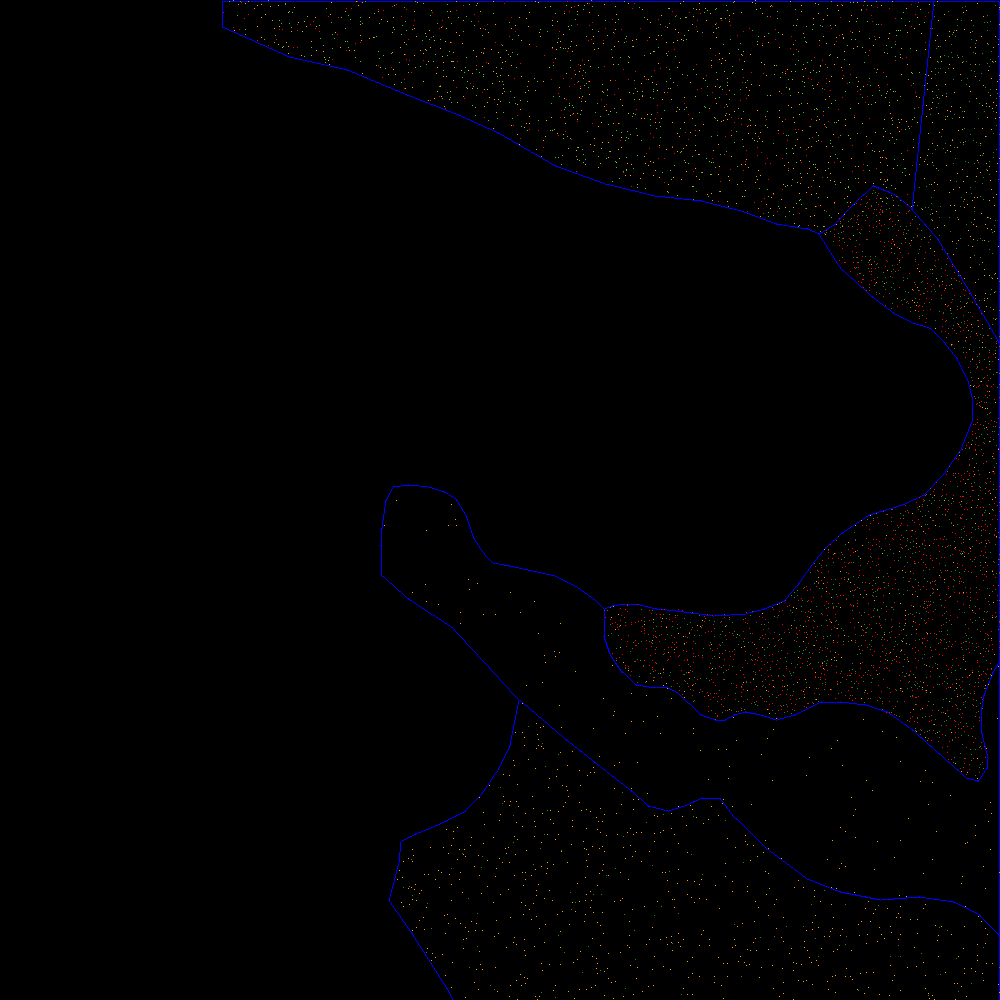
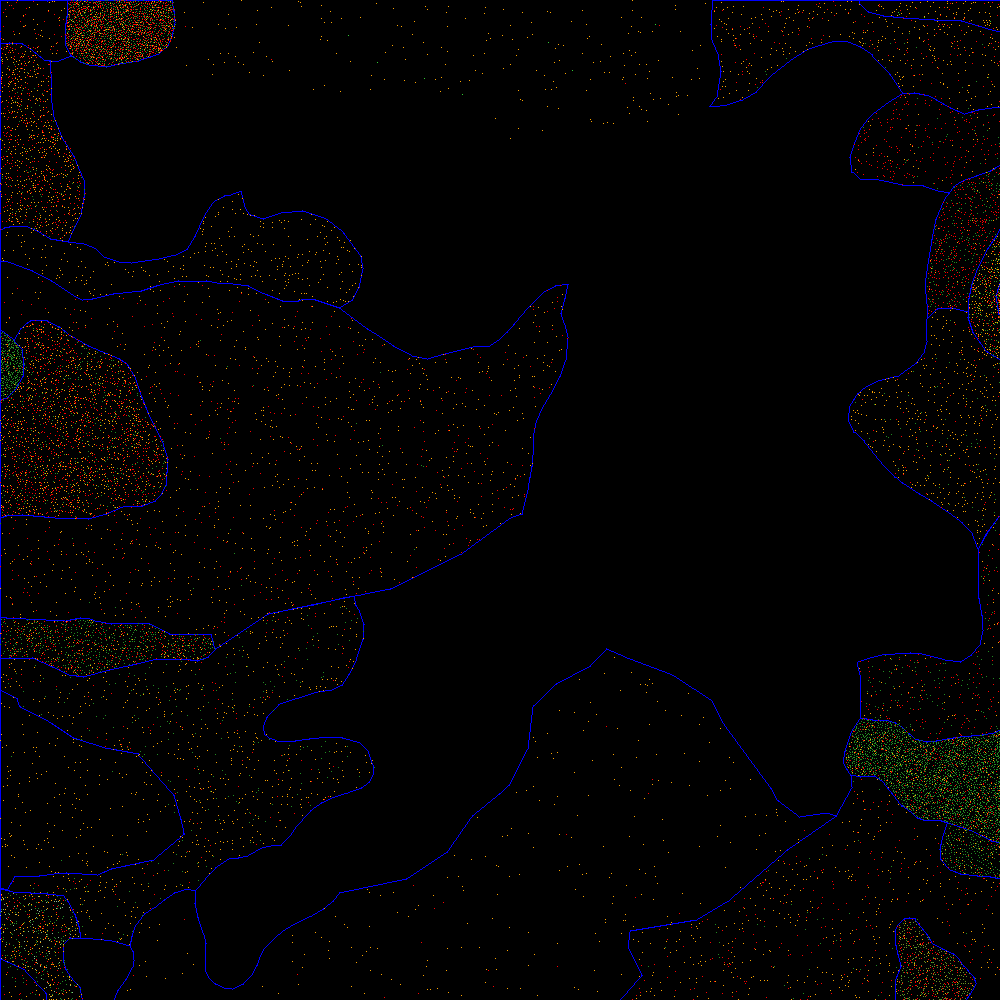
cleaned up some code

diff --git a/src/main.rs b/src/main.rs
@@ -51,7 +51,7 @@ fn get_color_by_species(number: i64) -> Rgb<u8> {
         _ => Rgb([0, 0, 0]), // Black for Unknown
     }
 }
-
+/*
 // Main function
 fn main() {
     let property = ForestPropertyData::from_xml_file("forestpropertydata.xml");
@@ -101,7 +101,7 @@ fn main() {
         .expect("Failed to save image");
     println!("Polygon image saved as 'polygon_image.png'");
 }
-
+*/
 #[test]
 fn test_writing_to_json() {
     let test_json_path = "test_json_from_xml.json";
@@ -169,9 +169,8 @@ fn test_find_stands_in_bounding_box() {
     }
 }
 
-/* 
+
 /* TESTING TREE GENERATION FOR STANDS IN BOUNDING BOX */
-// TODO: Fix drawing the compartment polygons and trees so that they don't overlap
 fn main() {
     let property = ForestPropertyData::from_xml_file("forestpropertydata.xml");
     let real_estate = property.real_estates.real_estate[0].clone();
@@ -207,18 +206,22 @@ let min_y: f64 = 7369564.333;
 
 
 */
-
-   /*  let min_x: f64 = 427754.979;
+    /*
+    let min_x: f64 = 427754.979;
     let max_x: f64 = 427997.035;
     let max_y: f64 = 7369787.000;
-    let min_y: f64 = 7369564.333; */
+    let min_y: f64 = 7369564.333; 
 
     let min_x: f64 = 427541.481;
     let max_x: f64 = 428282.985;
     let max_y: f64 = 7369959.526;
     let min_y: f64 = 7369564.333;
-
-
+    */
+    let min_x = 428400.0;
+    let max_x = 429400.0;
+    let min_y = 7370500.0;
+    let max_y = 7371500.0;
+    
     // Create an image processor with the desired image dimensions
     let img_width = 1000; // For example
     let img_height = 1000; // For example
@@ -226,11 +229,7 @@ let min_y: f64 = 7369564.333;
 
     // Find compartments in the bounding box
     let compartments = get_compartments_in_bounding_box(stands, min_x, max_x, min_y, max_y);
-    /*
-       let polygons: Vec<geo_types::Polygon> = compartments.iter().map(|f| f.polygon.to_owned()).collect::<Vec<_>>();
 
-       let multi = MultiPolygon::new(polygons);
-    */
     let bbox = geo::Polygon::new(
         LineString(vec![
             Coord { x: min_x, y: min_y },
@@ -253,9 +252,6 @@ let min_y: f64 = 7369564.333;
 
         let trees = compartment.trees_in_bounding_box(min_x, max_x, min_y, max_y);
 
-        // MultiPolygon always contains one Polygon because we are clipping to a bounding box
-        //let polygon = multi_polygon.0.first().unwrap();
-
         // Draw the polygon
         let mapped_coordinates = image.map_coordinates_to_image(&polygon, &scale);
 
@@ -277,4 +273,3 @@ let min_y: f64 = 7369564.333;
         .expect("Failed to save image");
     println!("Polygon image saved as 'clipped_image.png'");
 }
-*/
